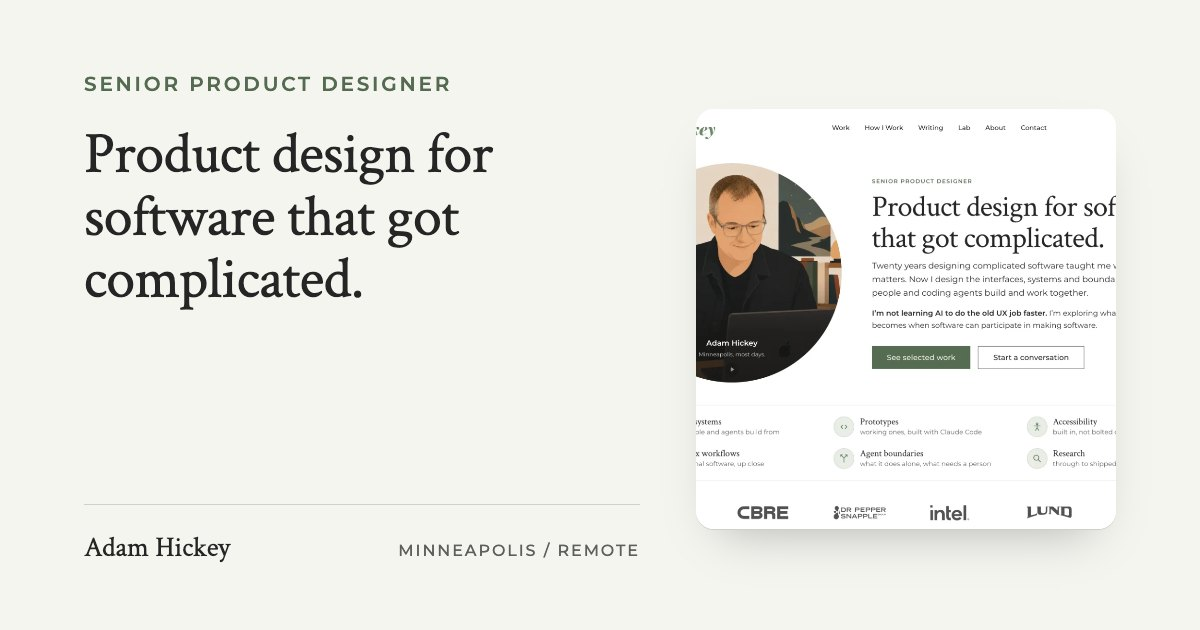
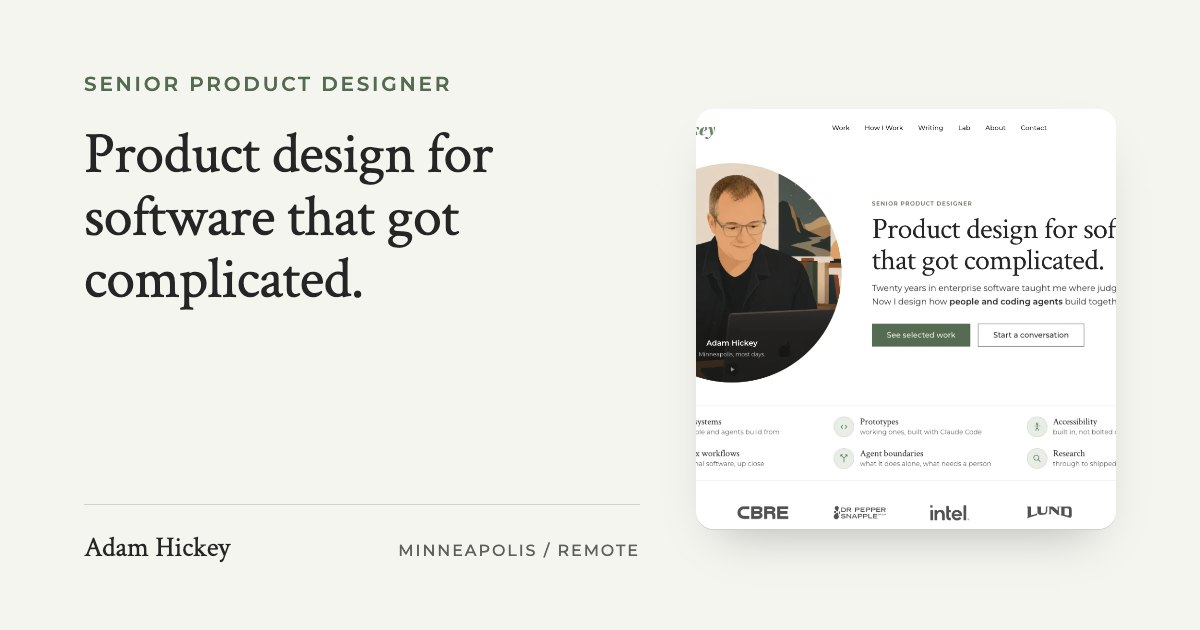
The homepage's share card and the build write-up's capture of the homepage show the hero as it reads now, one paragraph since #460 (#473)
img/site/this-site.webp still showed the hero before #460: a three-line
dek and "I'm not learning AI to do the old UX job faster." It is retaken
the way #404 took it, the homepage at 1440x900 with reduced motion,
printed at 1400x875, so the six client wordmarks stay whole along the
foot. og.mjs re-renders the two cards that frame it, index and
this-site. The capture's alt text on case-study/this-site.html describes
the new hero, and that page's dateModified and lastmod are stamped by
hand. Busters: this-site.webp ?v=4, og/index.jpg ?v=3, og/this-site.jpg
?v=3.

The fast five pass; resting and states pass on case-study/this-site.html.

Changed region(s): [[0.7092, 0.2714, 0.925, 0.6032]]

diff --git a/case-study/this-site.html b/case-study/this-site.html
@@ -19,7 +19,7 @@
   <meta property="og:url" content="https://adamhickey.com/case-study/this-site.html" />
   <meta property="og:title" content="How I built this site | Adam Hickey" />
   <meta property="og:description" content="How adamhickey.com is built: thirty-two pages of plain HTML with no framework and no build step, three token files under four normative specs, and ten checks that measure the rendered page before anything ships." />
-  <meta property="og:image" content="https://adamhickey.com/img/og/this-site.jpg?v=2" />
+  <meta property="og:image" content="https://adamhickey.com/img/og/this-site.jpg?v=3" />
   <meta property="og:image:width" content="1200" />
   <meta property="og:image:height" content="630" />
   <meta name="twitter:card" content="summary_large_image" />
@@ -40,9 +40,9 @@
           "description": "A build write-up for adamhickey.com: thirty-two pages of plain HTML with no framework and no build step, three token files under four normative specs, and ten checks that measure the rendered page before anything ships.",
           "url": "https://adamhickey.com/case-study/this-site.html",
           "mainEntityOfPage": "https://adamhickey.com/case-study/this-site.html",
-          "image": "https://adamhickey.com/img/og/this-site.jpg?v=2",
+          "image": "https://adamhickey.com/img/og/this-site.jpg?v=3",
           "datePublished": "2026-09-17",
-          "dateModified": "2026-10-08",
+          "dateModified": "2026-10-09",
           "author": {
             "@id": "https://adamhickey.com/#adam"
           },
@@ -233,8 +233,8 @@
              sits one click away would be the one dishonest picture here. -->
         <figure class="build-shot">
           <div class="build-laptop"><div class="build-laptop-lid">
-              <img src="../img/site/this-site.webp?v=3" width="1400" height="875" fetchpriority="high" decoding="async"
-                   alt="The homepage of this site at laptop width: the wordmark and six section links across the top, the portrait in a circle on the left, and on the right the eyebrow Senior Product Designer over the title &ldquo;Product design for software that got complicated.&rdquo;, a three-line dek, a two-line paragraph opening &ldquo;I&rsquo;m not learning AI to do the old UX job faster.&rdquo;, and two buttons reading See selected work and Start a conversation. Under the pair, six facts in two rows of three, each with a small line icon in a pale disc, among them Agent boundaries, and a row of six client wordmarks along the bottom." />
+              <img src="../img/site/this-site.webp?v=4" width="1400" height="875" fetchpriority="high" decoding="async"
+                   alt="The homepage of this site at laptop width: the wordmark and six section links across the top, the portrait in a circle on the left, and on the right the eyebrow Senior Product Designer over the title &ldquo;Product design for software that got complicated.&rdquo;, a two-line dek ending &ldquo;Now I design how people and coding agents build together.&rdquo; with &ldquo;people and coding agents&rdquo; in bold, and two buttons reading See selected work and Start a conversation. Under the pair, six facts in two rows of three, each with a small line icon in a pale disc, among them Agent boundaries, and a row of six client wordmarks along the bottom." />
             </div></div>
         </figure>
 

diff --git a/index.html b/index.html
@@ -30,7 +30,7 @@
        "How a change reaches the live site". -->
   <link rel="canonical" href="https://adamhickey.com/" />
   <meta property="og:url" content="https://adamhickey.com/" />
-  <meta property="og:image" content="https://adamhickey.com/img/og/index.jpg?v=2" />
+  <meta property="og:image" content="https://adamhickey.com/img/og/index.jpg?v=3" />
   <meta property="og:image:width" content="1200" />
   <meta property="og:image:height" content="630" />
   <meta name="twitter:card" content="summary_large_image" />
@@ -51,7 +51,7 @@
           "jobTitle": "Senior Product Designer",
           "description": "Senior product designer for complex enterprise software, design systems and agentic workflows, in Minneapolis.",
           "url": "https://adamhickey.com/",
-          "image": "https://adamhickey.com/img/og/index.jpg?v=2",
+          "image": "https://adamhickey.com/img/og/index.jpg?v=3",
           "email": "mailto:adam@adamhickey.com",
           "address": {
             "@type": "PostalAddress",
@@ -85,7 +85,7 @@
           "name": "Adam Hickey — Product Design",
           "description": "Adam Hickey's independent product design practice in Minneapolis, for complex enterprise software: design systems, modernizing legacy products, and AI product prototypes. Twenty years inside enterprise platforms, design systems, and products that outgrew their original shape.",
           "url": "https://adamhickey.com/",
-          "image": "https://adamhickey.com/img/og/index.jpg?v=2",
+          "image": "https://adamhickey.com/img/og/index.jpg?v=3",
           "founder": {
             "@id": "https://adamhickey.com/#adam"
           },
